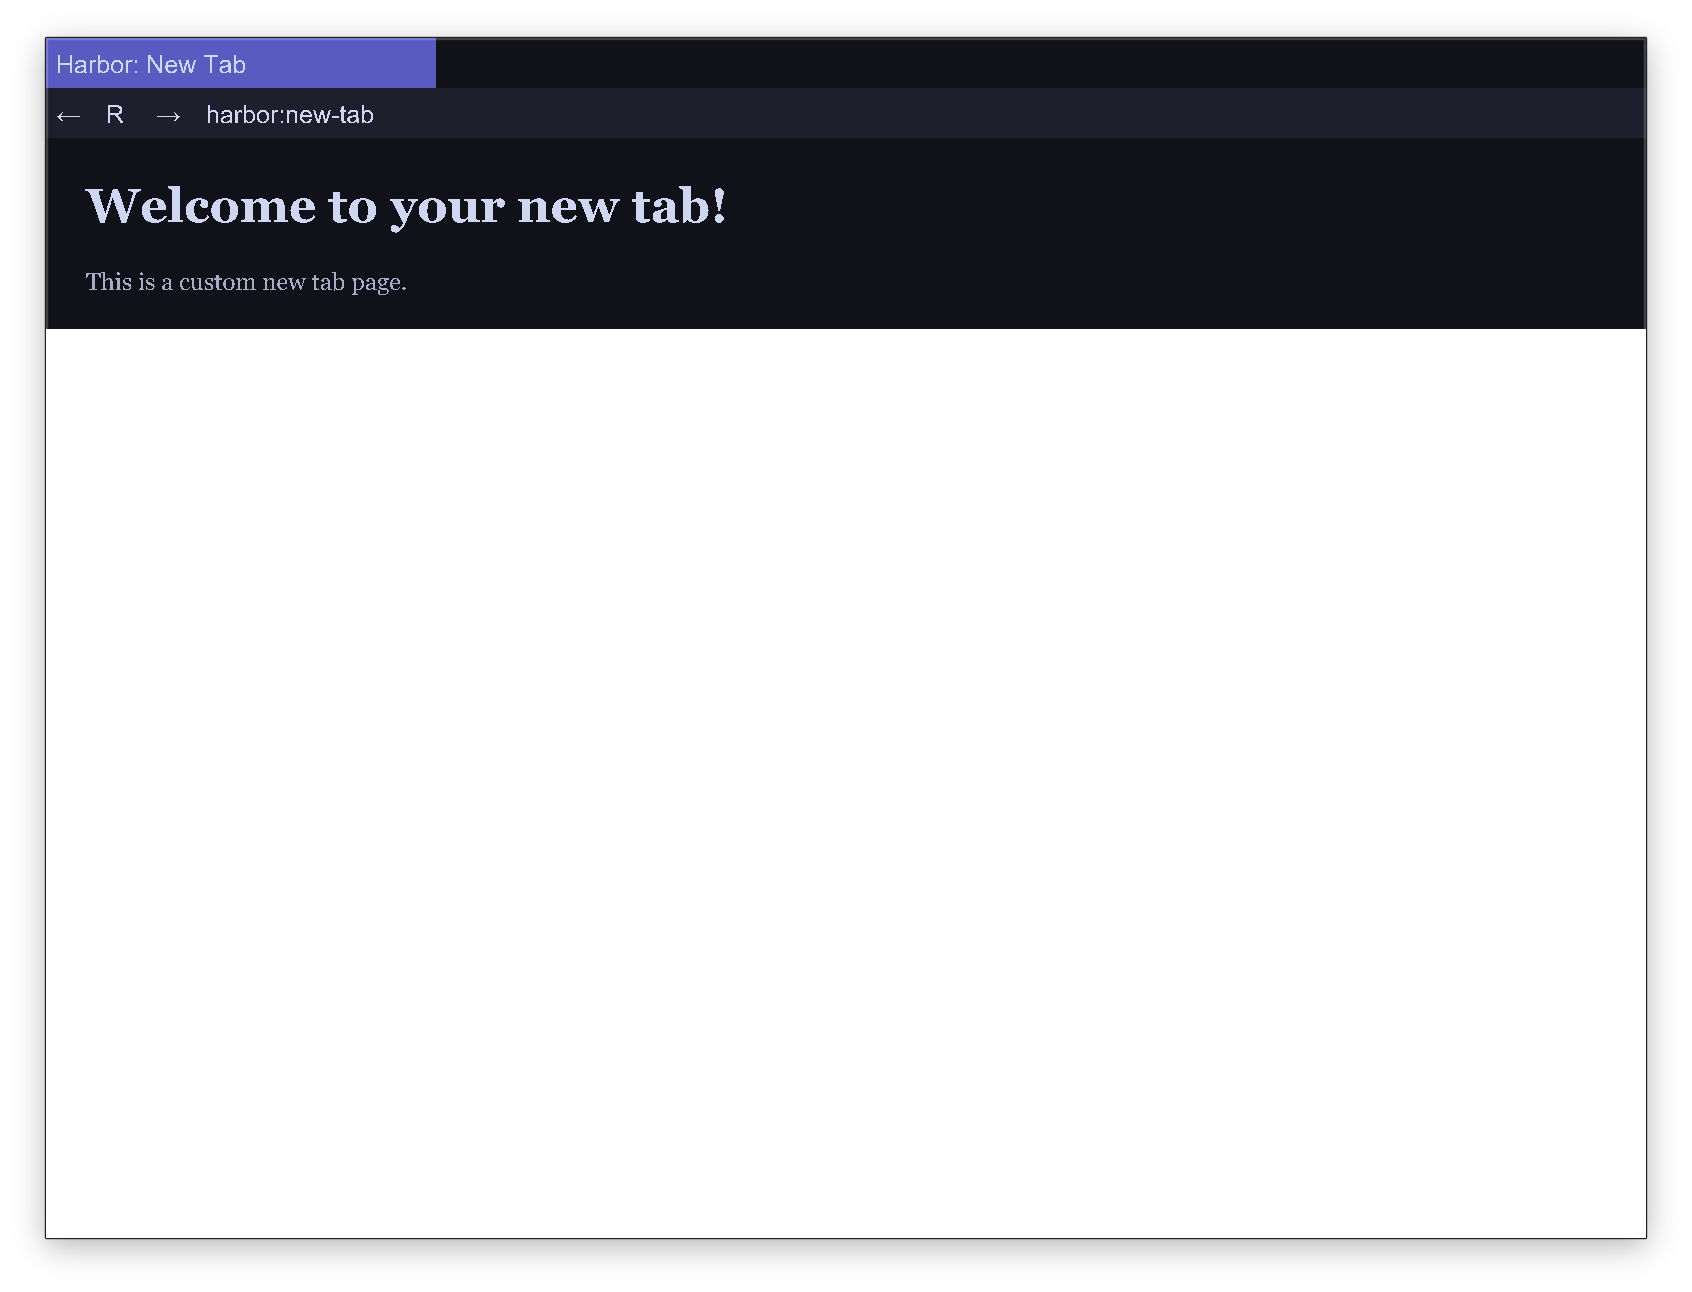
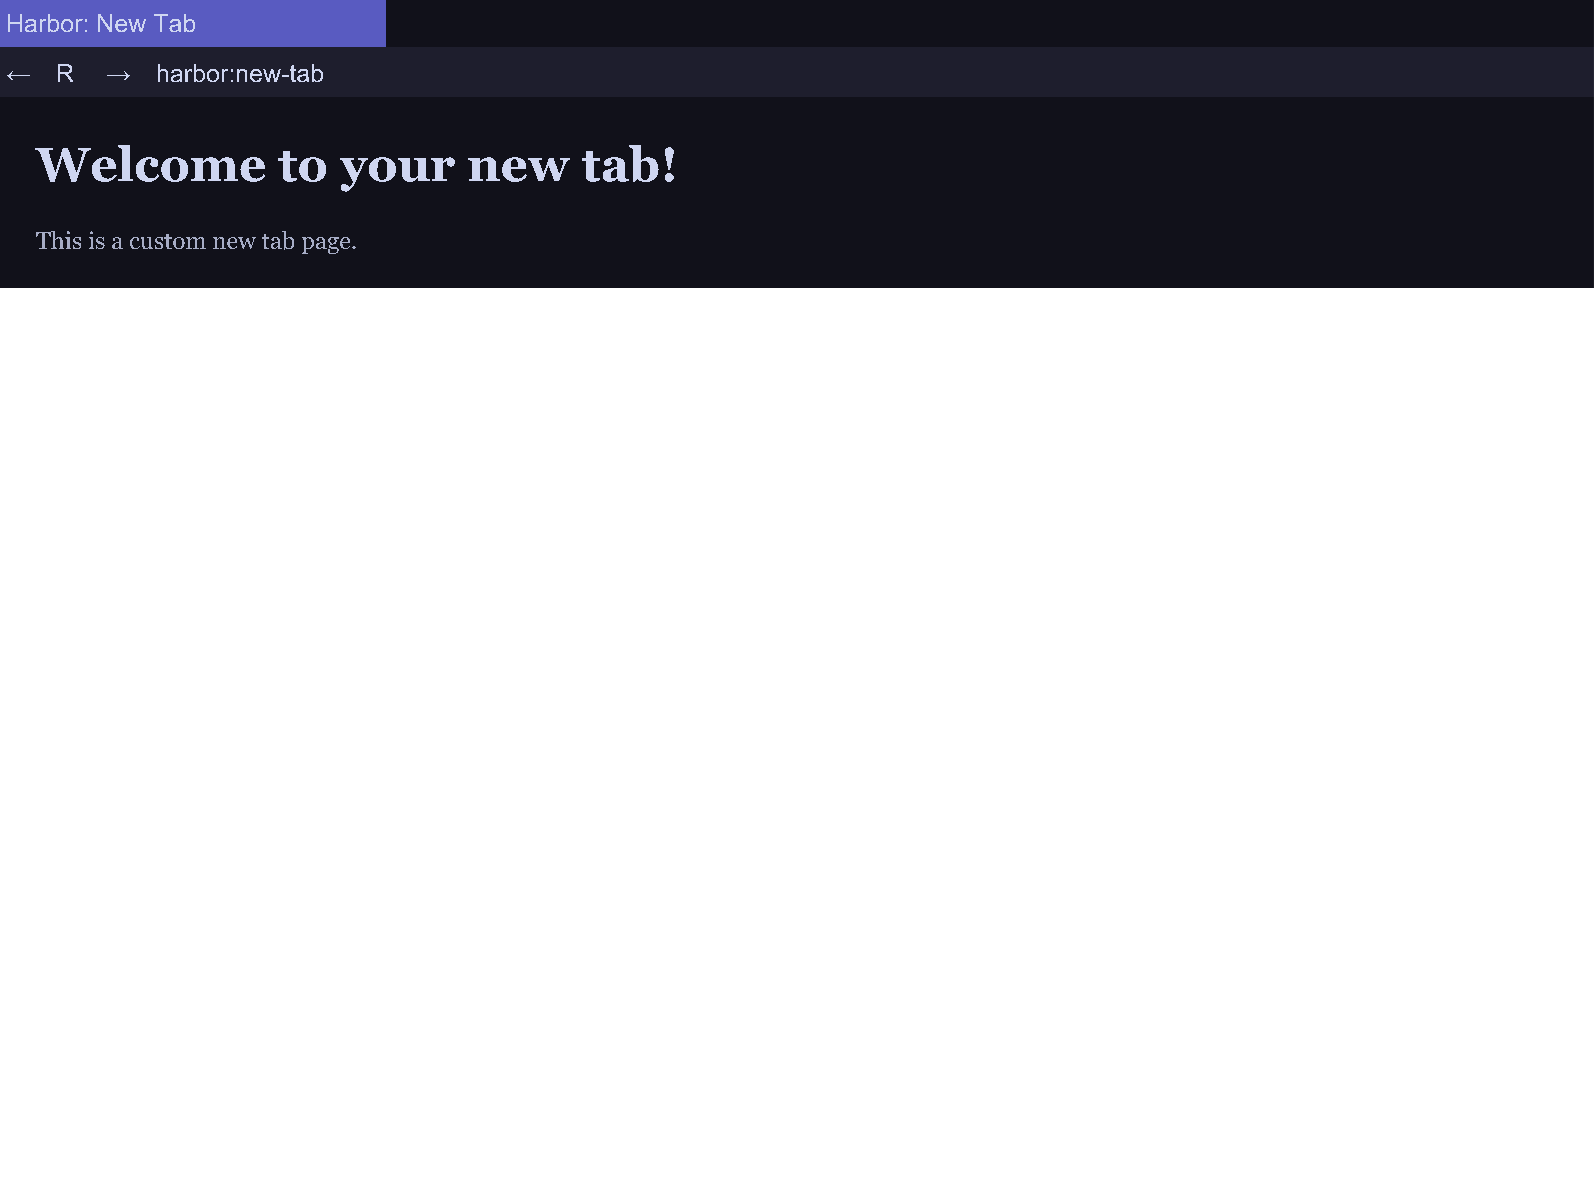
fix: Made screenshot corners rounded

Changed region(s): [[0.0, 0.0, 1.0, 0.9891]]

diff --git a/web/src/routes/+page.svelte b/web/src/routes/+page.svelte
@@ -41,11 +41,11 @@
       >GitHub</button
     >
   </div>
-  <img
-    src="/assets/ss.png"
-    alt="screenshot of harbor browser"
-    class="animate rounded-lg shadow-lg"
-  />
+  <div class="w-[80%] rounded-lg">
+    <img
+      src="/assets/ss.png"
+      alt="screenshot of harbor browser"
+      class="animate shadow-lg mt-8 overflow-hidden rounded-xl"
+    />
+  </div>
 </div>
-
-<div class="h-[200vh]"></div>
